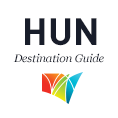
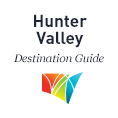
DNSW port and hunter config

Changed region(s): [[0.2034, 0.1017, 0.839, 0.4068]]

diff --git a/www/AppSettings-port-stephens.js b/www/AppSettings-port-stephens.js
@@ -12,7 +12,7 @@ AppSettings.imgfolder = 'resources/app-images/port-stephens/';
 // Path to load images from
 AppSettings.regionImagePath = 'resources/region-images/blue/';
 // Path to load offile maps from
-AppSettings.mapsTilesPath = AppSettings.imgfolder + 'maptiles/';
+AppSettings.mapsTilesPath =false;
 // offile maps max zoom level
 AppSettings.offlineMapsMaxZoom = 14;
 // Website URL sydney.com or visitnsw.com
@@ -24,22 +24,22 @@ AppSettings.appAddress = {
     suburb: 'port stephens'
 };
 // The default map center
-AppSettings.center = [-33.424887, 151.342269];
+AppSettings.center = [-32.685383, 152.034096];
 // The bound of the app, used to find products and services
 AppSettings.bounds = {
-    "left": 151.1594,
-    "bottom": -33.0702,
-    "right": 151.6675,
-    "top": -33.5591
+    "left": 151.804962,
+    "bottom":-32.862286,
+    "right": 152.266388,
+    "top": -32.579221
 };
 // used with the center for alerts search in KM
 AppSettings.radius = 40;
 // The detinations to perform all funnel back serches within
 // look at the structure of the path on http://www.visitnsw.com/ Example http://www.visitnsw.com/destinations/blue-mountains
-AppSettings.destinationWebpath = '/north-coast/';
+AppSettings.destinationWebpath = '/north-coast/port-stephens-area/';
 // List of sub desinations to be used in the search. the Local areas listed at the bootom of the destinations page on visitnsw.com
 AppSettings.appSubDestination = [{
-    name: "Gosford-Area",
+    name: "Port-Stephens-Area",
     towns: [{
         name: "Nelson Bay"
     }, {
@@ -70,10 +70,10 @@ AppSettings.defualtShareData = {
     defaultMessage: 'Check out the ' + AppSettings.appAreaName + ' App on the app store',
     description: 'The ' + AppSettings.appAreaName + ' App has been developed by Destination NSW to assist visitors in planning their journey to the ' + AppSettings.appAreaName + '.',
     emailBody: 'The ' + AppSettings.appAreaName + ' App has been developed by Destination NSW to assist visitors in planning their journey to the ' + AppSettings.appAreaName + '.',
-    appleStoreLink: 'http://redir.tiltandco.net/escape/centralcoast/itunes',
-    googlePlayLink: 'http://redir.tiltandco.net/escape/centralcoast/googleplay',
+    appleStoreLink: 'http://redir.tiltandco.net/escape/portstephens/itunes',
+    googlePlayLink: 'http://redir.tiltandco.net/escape/portstephens/googleplay',
     // maybe chnage picture
-    picture: 'http://getconnected.dnsw.com.au/multimedia/GTOPromo__9131570_AF02_JWP2584.jpg'
+    picture: 'http://images2.visitnsw.com/sites/default/files/header-images/1695/zenith-beach-port-stephens.jpg'
 
 
 
@@ -84,7 +84,7 @@ AppSettings.facebook = {
     // FACEBOOK APP ID
     secret: "9079d25a28945c3d9e6ac6ec880b6197",
     // FACEBOOK APP SECRET
-    redirectUrl: "http://www.sydney.com/",
+    redirectUrl: "http://www.visitnsw.com/",
     // CHANGE THIS THE USER WILL SEE IT AFTER THEY LOGIN
     type: "user_agent",
     // LEAVE THIS
@@ -123,7 +123,7 @@ AppSettings.weatherStations = [{
 AppSettings.sensis = {
     ApiKey: 'ajjxy6c2uwu6gsr6gwtwbmr5',
     url: 'http://api.sensis.com.au/ob-20110511/prod/search',
-    location: "Central Coast NSW" // ** You will need to updated this
+    location: "Port Stephens NSW" // ** You will need to updated this
 };
 AppSettings.whereis = {
     token: '8348923927920532480',
@@ -241,7 +241,7 @@ AppSettings.mainMenu = [{
         firstPage: {
             xtype: 'contentPage',
             title: 'About ' + AppSettings.appAreaName,
-            contentPath: AppSettings.getSMPSectionURL() + '/about-central-coast-nsw'
+            contentPath: AppSettings.getSMPSectionURL() + '/about-port-stephens-nsw'
         }
     }, {
 
@@ -307,8 +307,7 @@ AppSettings.mainMenu = [{
         firstPage: {
             xtype: 'eventsPage',
             title: 'Events',
-            rightBtn: 'searchBtn',
-            contentPath: AppSettings.getSMPSectionURL() + '/things-to-do/arts,-culture'
+            rightBtn: 'searchBtn'
         }
     }, {
         title: 'Services & Facilities',

diff --git a/www/AppSettings-hunter-valley.js b/www/AppSettings-hunter-valley.js
@@ -10,7 +10,7 @@ AppSettings.appAreaName = 'Hunter Valley';
 // path to load unqiue images for the app from
 AppSettings.imgfolder = 'resources/app-images/hunter-valley/';
 // Path to load images from
-AppSettings.regionImagePath = 'resources/region-images/blue/';
+AppSettings.regionImagePath = 'resources/region-images/green/';
 // Path to load offile maps from
 AppSettings.mapsTilesPath = false;
 // offile maps max zoom level
@@ -24,13 +24,13 @@ AppSettings.appAddress = {
     suburb: 'hunter valley'
 };
 // The default map center
-AppSettings.center = [-33.424887, 151.342269];
+AppSettings.center = [-32.460350, 150.767922];
 // The bound of the app, used to find products and services
 AppSettings.bounds = {
-    "left": 151.1594,
-    "bottom": -33.0702,
-    "right": 151.6675,
-    "top": -33.5591
+    "left": 150.369873,
+    "bottom": -32.722599,
+    "right": 151.408081,
+    "top": -32.189560
 };
 // used with the center for alerts search in KM
 AppSettings.radius = 40;
@@ -82,10 +82,10 @@ AppSettings.defualtShareData = {
     defaultMessage: 'Check out the ' + AppSettings.appAreaName + ' App on the app store',
     description: 'The ' + AppSettings.appAreaName + ' App has been developed by Destination NSW to assist visitors in planning their journey to the ' + AppSettings.appAreaName + '.',
     emailBody: 'The ' + AppSettings.appAreaName + ' App has been developed by Destination NSW to assist visitors in planning their journey to the ' + AppSettings.appAreaName + '.',
-    appleStoreLink: 'http://redir.tiltandco.net/escape/centralcoast/itunes',
-    googlePlayLink: 'http://redir.tiltandco.net/escape/centralcoast/googleplay',
+    appleStoreLink: 'http://redir.tiltandco.net/escape/hunter/itunes',
+    googlePlayLink: 'http://redir.tiltandco.net/escape/hunter/googleplay',
     // maybe chnage picture
-    picture: 'http://getconnected.dnsw.com.au/multimedia/GTOPromo__9131570_AF02_JWP2584.jpg'
+    picture: 'http://images2.visitnsw.com/sites/default/files/galleries/hot-air-ballooning.jpg'
 
 
 
@@ -96,7 +96,7 @@ AppSettings.facebook = {
     // FACEBOOK APP ID
     secret: "9079d25a28945c3d9e6ac6ec880b6197",
     // FACEBOOK APP SECRET
-    redirectUrl: "http://www.sydney.com/",
+    redirectUrl: "http://www.visitnsw.com/",
     // CHANGE THIS THE USER WILL SEE IT AFTER THEY LOGIN
     type: "user_agent",
     // LEAVE THIS
@@ -145,7 +145,7 @@ AppSettings.weatherStations = [{
 AppSettings.sensis = {
     ApiKey: 'ajjxy6c2uwu6gsr6gwtwbmr5',
     url: 'http://api.sensis.com.au/ob-20110511/prod/search',
-    location: "Central Coast NSW" // ** You will need to updated this
+    location: "Hunter Valley NSW" // ** You will need to updated this
 };
 AppSettings.whereis = {
     token: '8348923927920532480',
@@ -271,7 +271,7 @@ AppSettings.mainMenu = [{
         firstPage: {
             xtype: 'contentPage',
             title: 'About ' + AppSettings.appAreaName,
-            contentPath: AppSettings.getSMPSectionURL() + '/about-central-coast-nsw'
+            contentPath: AppSettings.getSMPSectionURL() + '/about-port-stephens-nsw'
         }
     }, {
 
@@ -337,8 +337,7 @@ AppSettings.mainMenu = [{
         firstPage: {
             xtype: 'eventsPage',
             title: 'Events',
-            rightBtn: 'searchBtn',
-            contentPath: AppSettings.getSMPSectionURL() + '/things-to-do/arts,-culture'
+            rightBtn: 'searchBtn'
         }
     }, {
         title: 'Services & Facilities',

diff --git a/www/resources/sass/app.scss b/www/resources/sass/app.scss
@@ -1,12 +1,12 @@
 
 // - blue
-$active-color: #00bad9;
-$highlightLight:#00bad9;
-$image-path: '../region-images/blue';
+// $active-color: #00bad9;
+// $highlightLight:#00bad9;
+// $image-path: '../region-images/blue';
 // - green
-// $active-color: #71b33c;
-// $highlightLight:#71b33c;
-// $image-path: '../region-images/green';
+$active-color: #71b33c;
+$highlightLight:#71b33c;
+$image-path: '../region-images/green';
 
 
 // - orange
@@ -16,7 +16,7 @@ $image-path: '../region-images/blue';
 
 // APP Image locations
 
-$app-image-path: '../app-images/port-stephens/';
+$app-image-path: '../app-images/hunter-valley/';
 $general-path: '../region-images/general';
 $footer-image: 'visitnsw_footer_logo'; // 'footer_logo'; // visitnsw_footer_logo // footer_logo // central-coast-footer
 

diff --git a/www/index.html b/www/index.html
@@ -19,7 +19,7 @@
         <script type="text/javascript" src="resources/js/extensions.js">
         </script>
         <!-- updated app settings for each app -->
-        <script type="text/javascript" src="AppSettings-port-stephens.js">
+        <script type="text/javascript" src="AppSettings-hunter-valley.js">
         </script>
         <!-- general js includes -->
         <script type="text/javascript" src="resources/js/lazyload-min.js">
